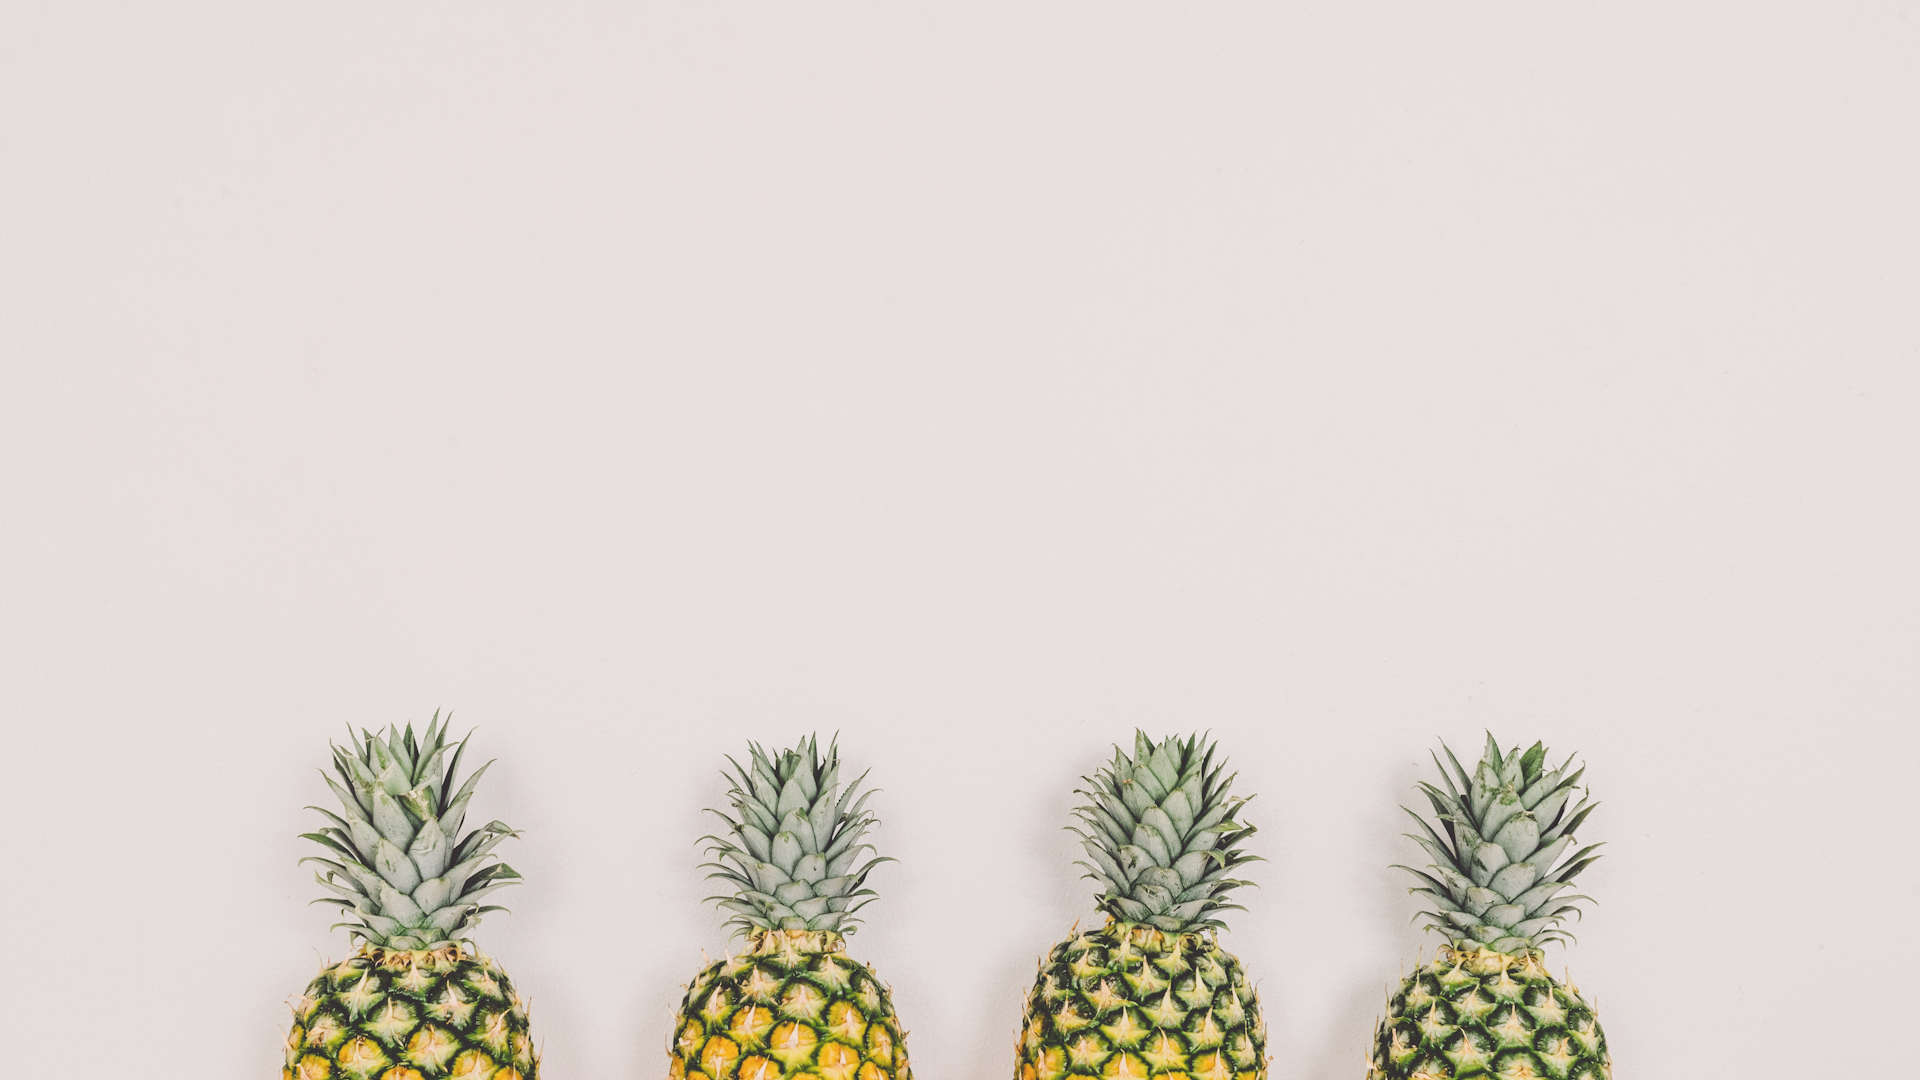
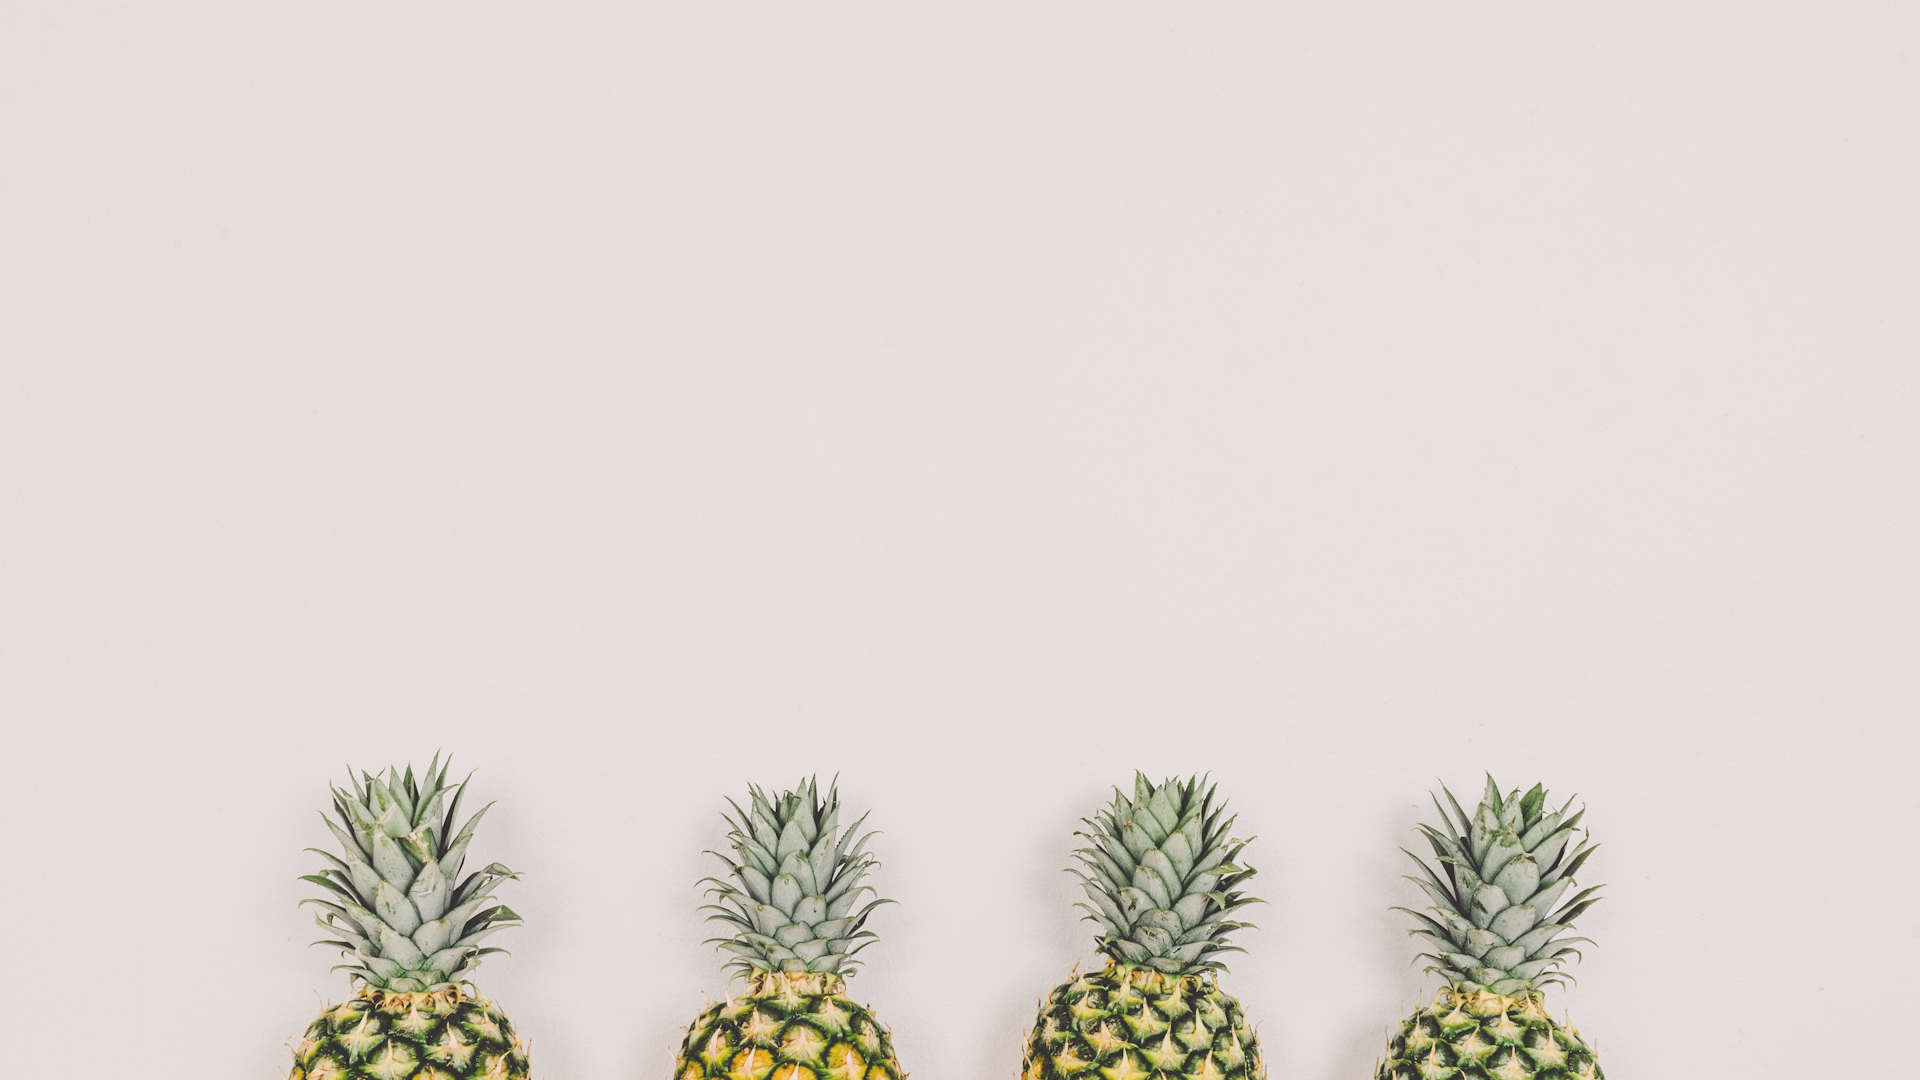
fixed h1 and image alignment

Changed region(s): [[0.3438, 0.6722, 0.8438, 1.0], [0.125, 0.6722, 0.2812, 1.0]]

diff --git a/public/styles/main.css b/public/styles/main.css
@@ -8,6 +8,7 @@ body{
   color: #222;
   background-color: #2f2f2f;
   font-family: Roboto, helvetica, sans-serif;
+  overflow-x: hidden;
 }
 
 html, body {
@@ -97,7 +98,7 @@ section {
 
 #masthead {
   min-height: 100%;
-  background: url("../images/pineapple.jpg") no-repeat center center; 
+  background: url("../images/pineapple.jpg") no-repeat center bottom; 
   background-size: cover;
 }
 
@@ -114,6 +115,7 @@ section {
   font-family: Bitter, Times, serif;
   font-weight: 400; 
   font-kerning: none;
+  margin: -25px 0px 0px 0px;
 }
 
 #mast-text h3 h5 p {
@@ -478,7 +480,7 @@ input:focus, textarea:focus {
 
   #mast-text h1 {
     font-size: 6em;
-    width: 75%;
+    width: 100%;
     margin-left: auto;
     margin-right: auto;
     text-align: center;
